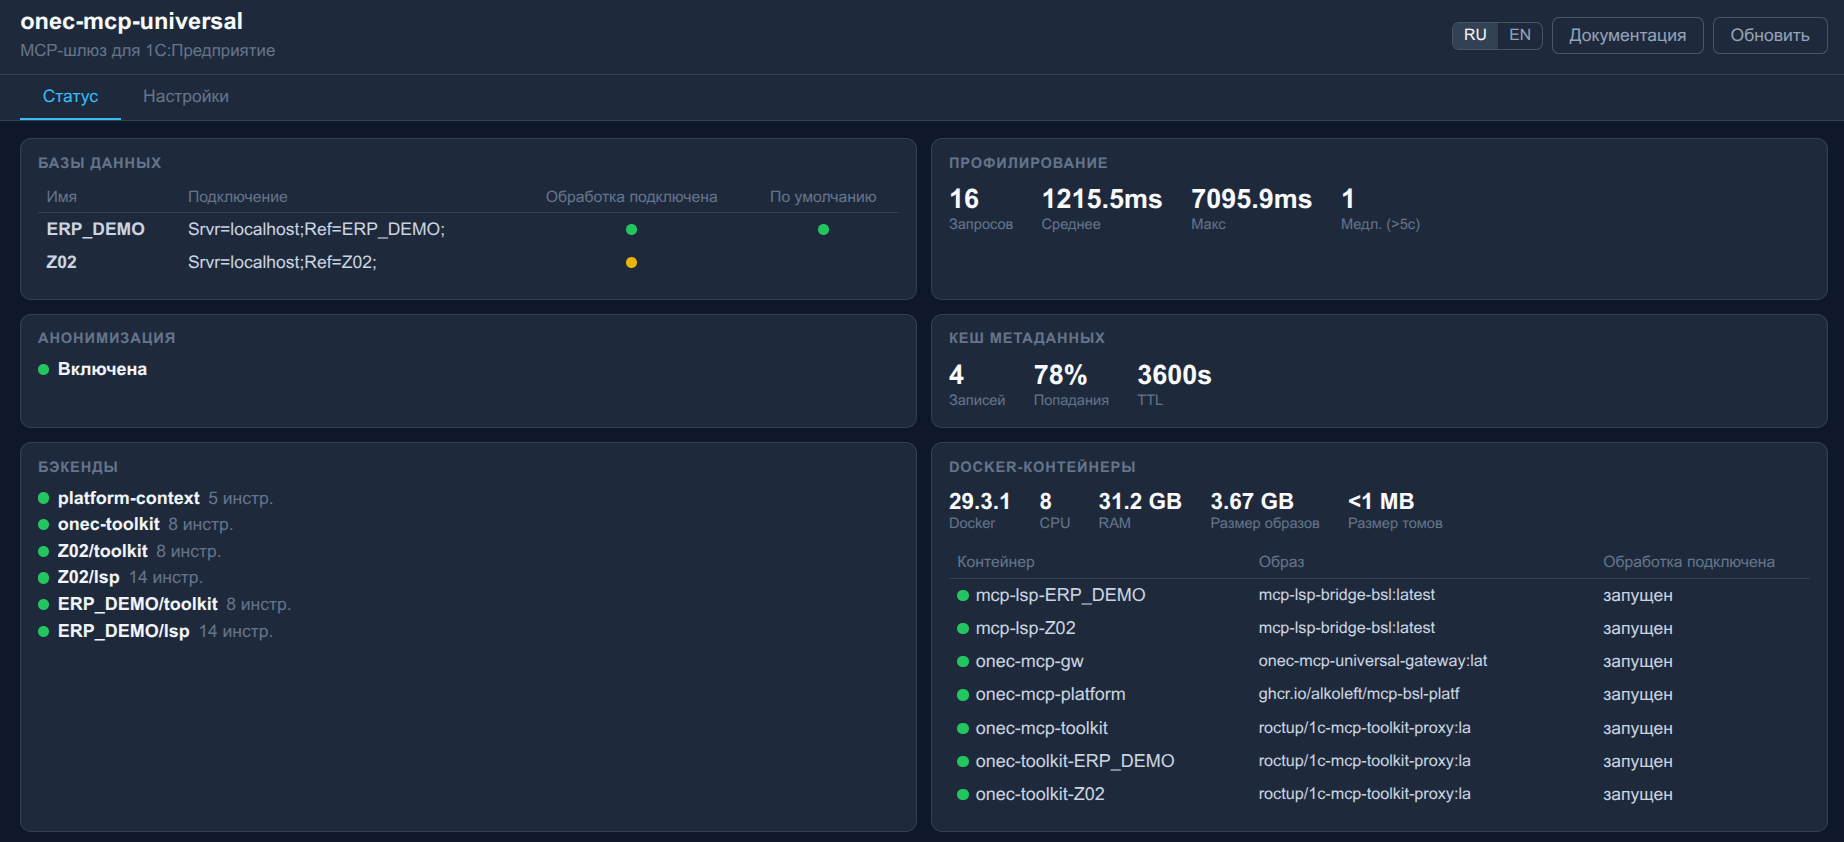
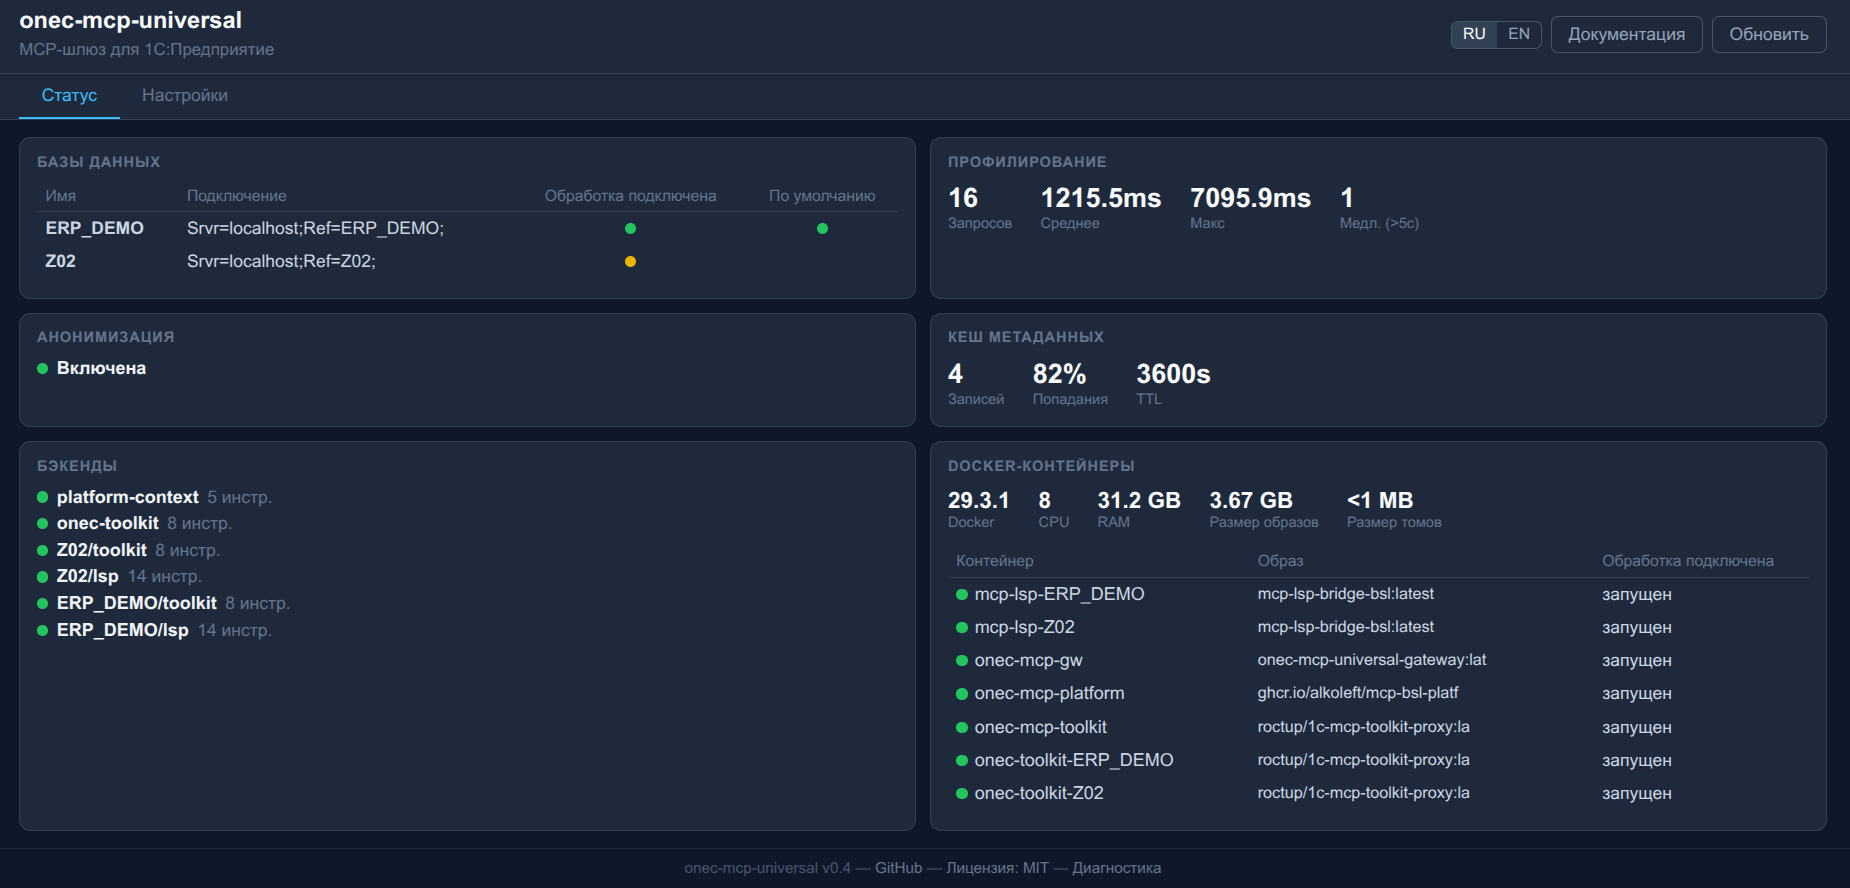
docs: update dashboard screenshot, add settings tab screenshot

diff --git a/README.md b/README.md
@@ -6,6 +6,8 @@
 
 ![Dashboard](docs/dashboard.png)
 
+![Dashboard Settings](docs/dashboard-settings.png)
+
 ---
 
 ## Содержание
